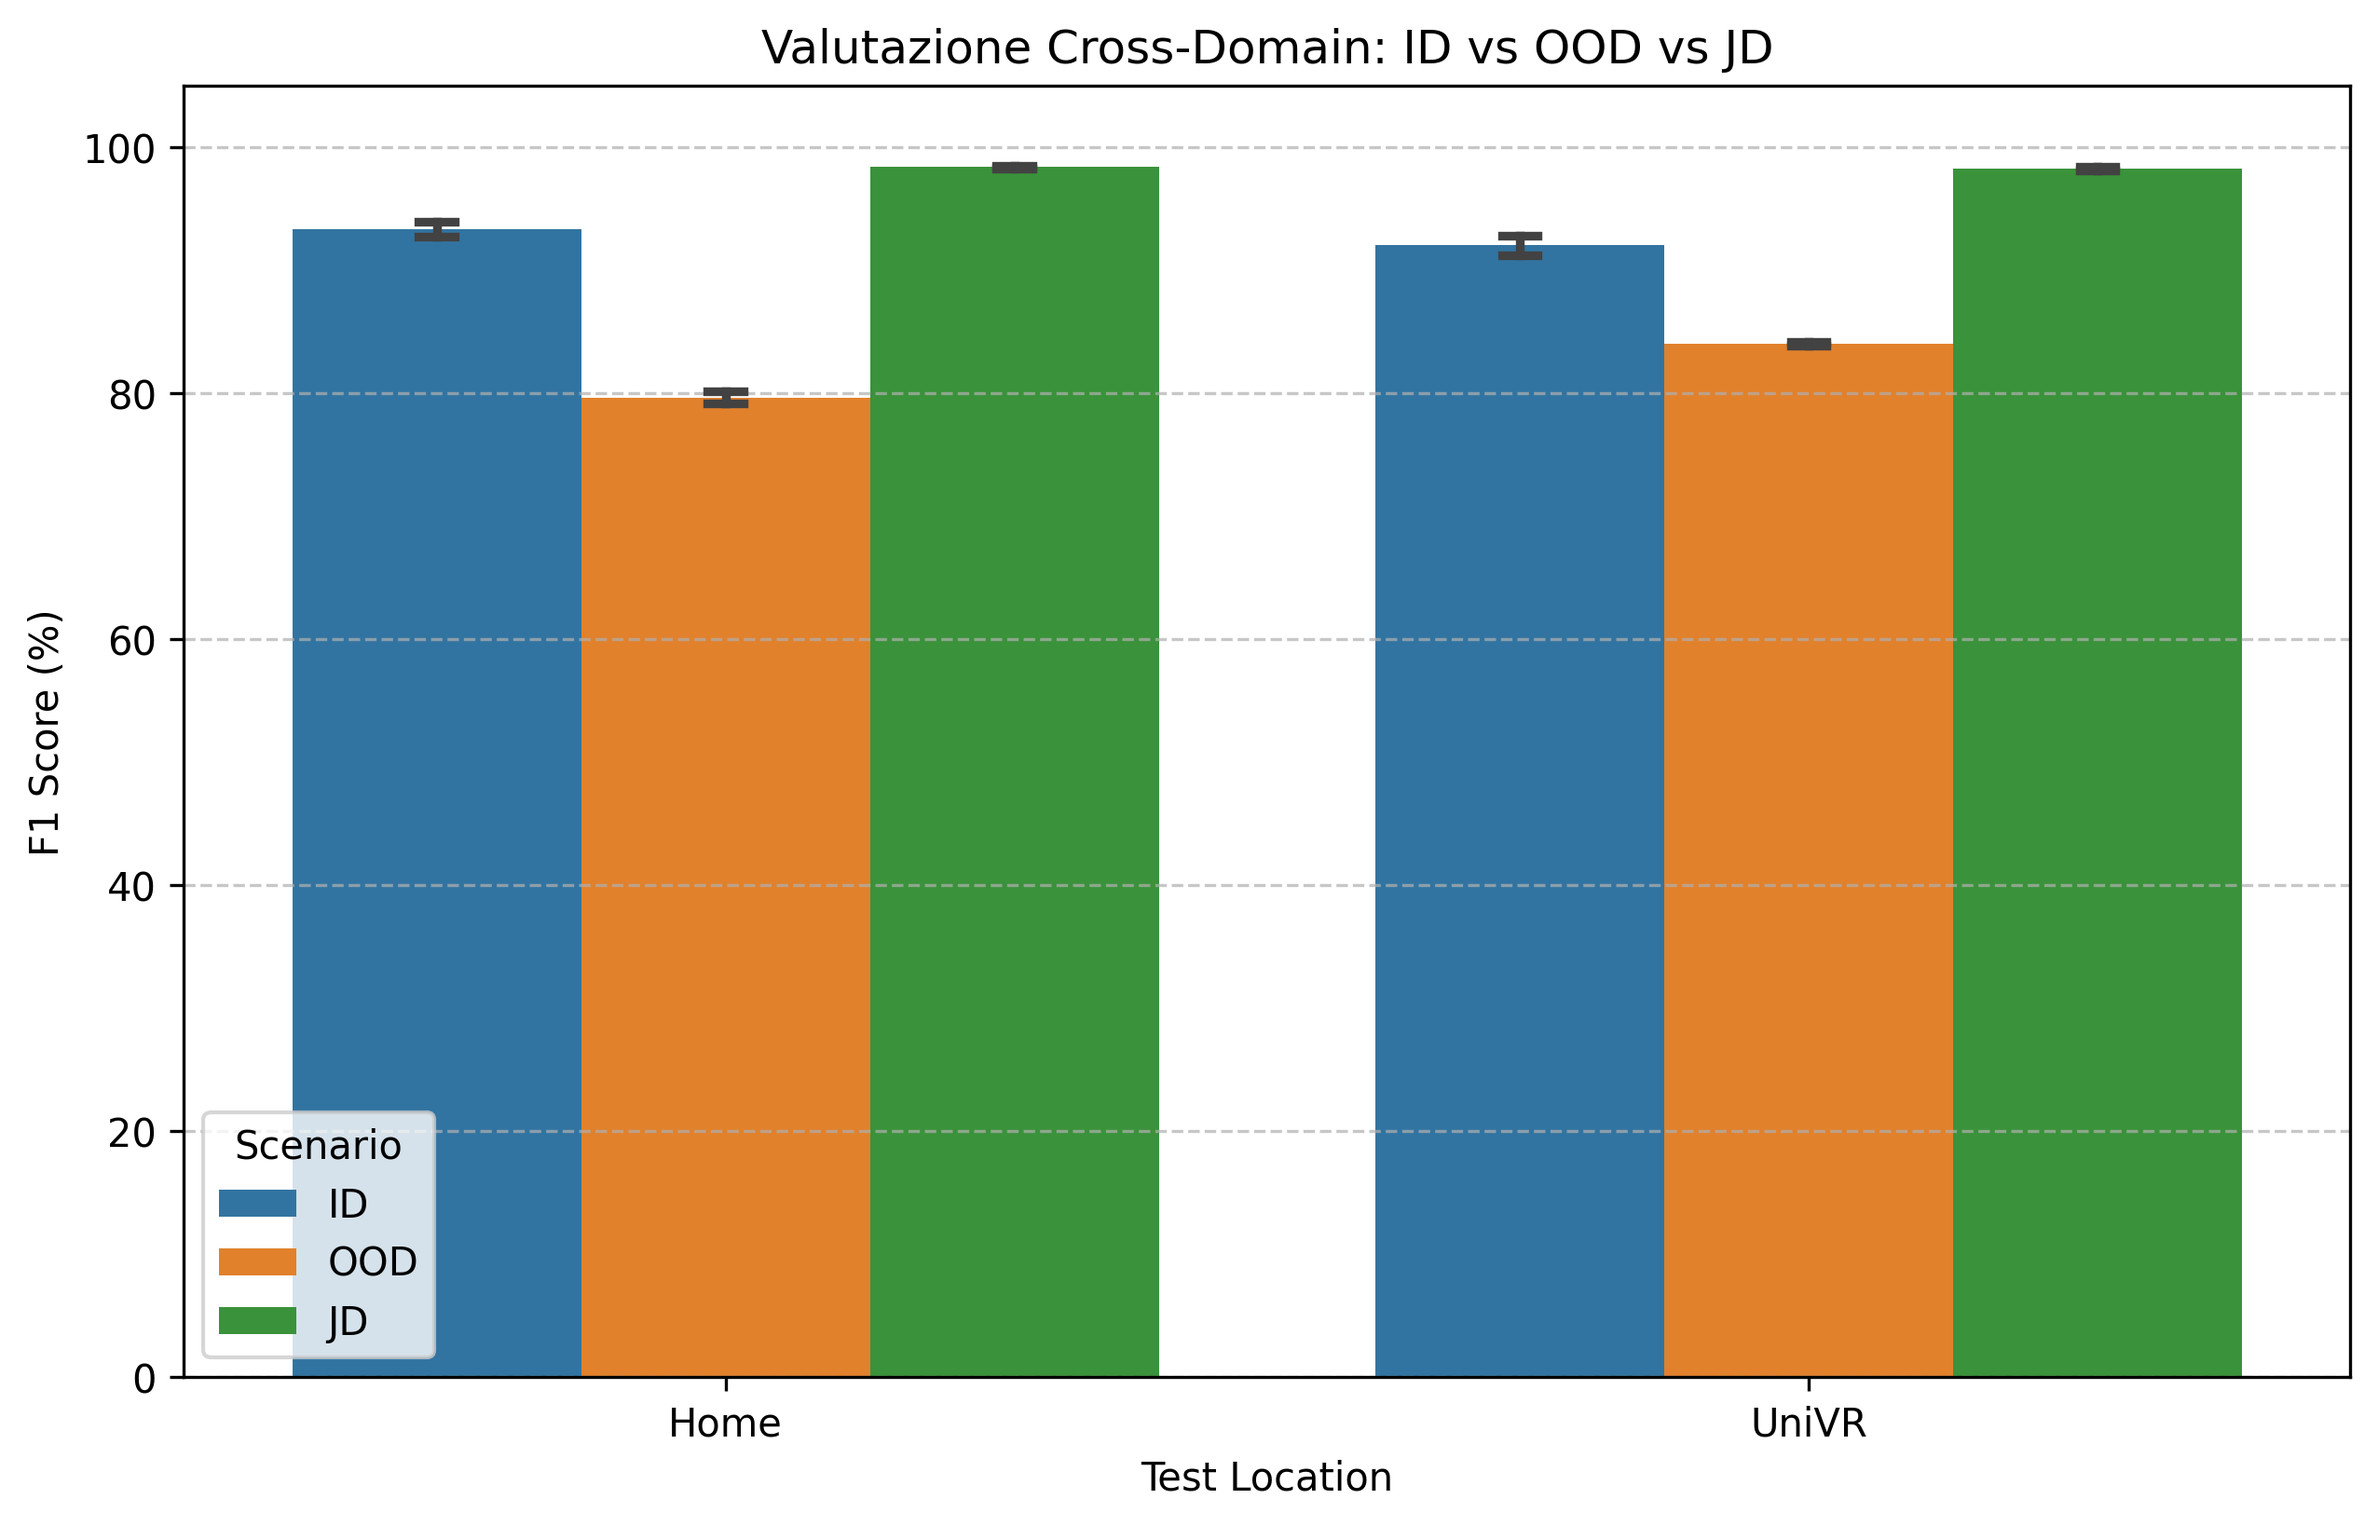
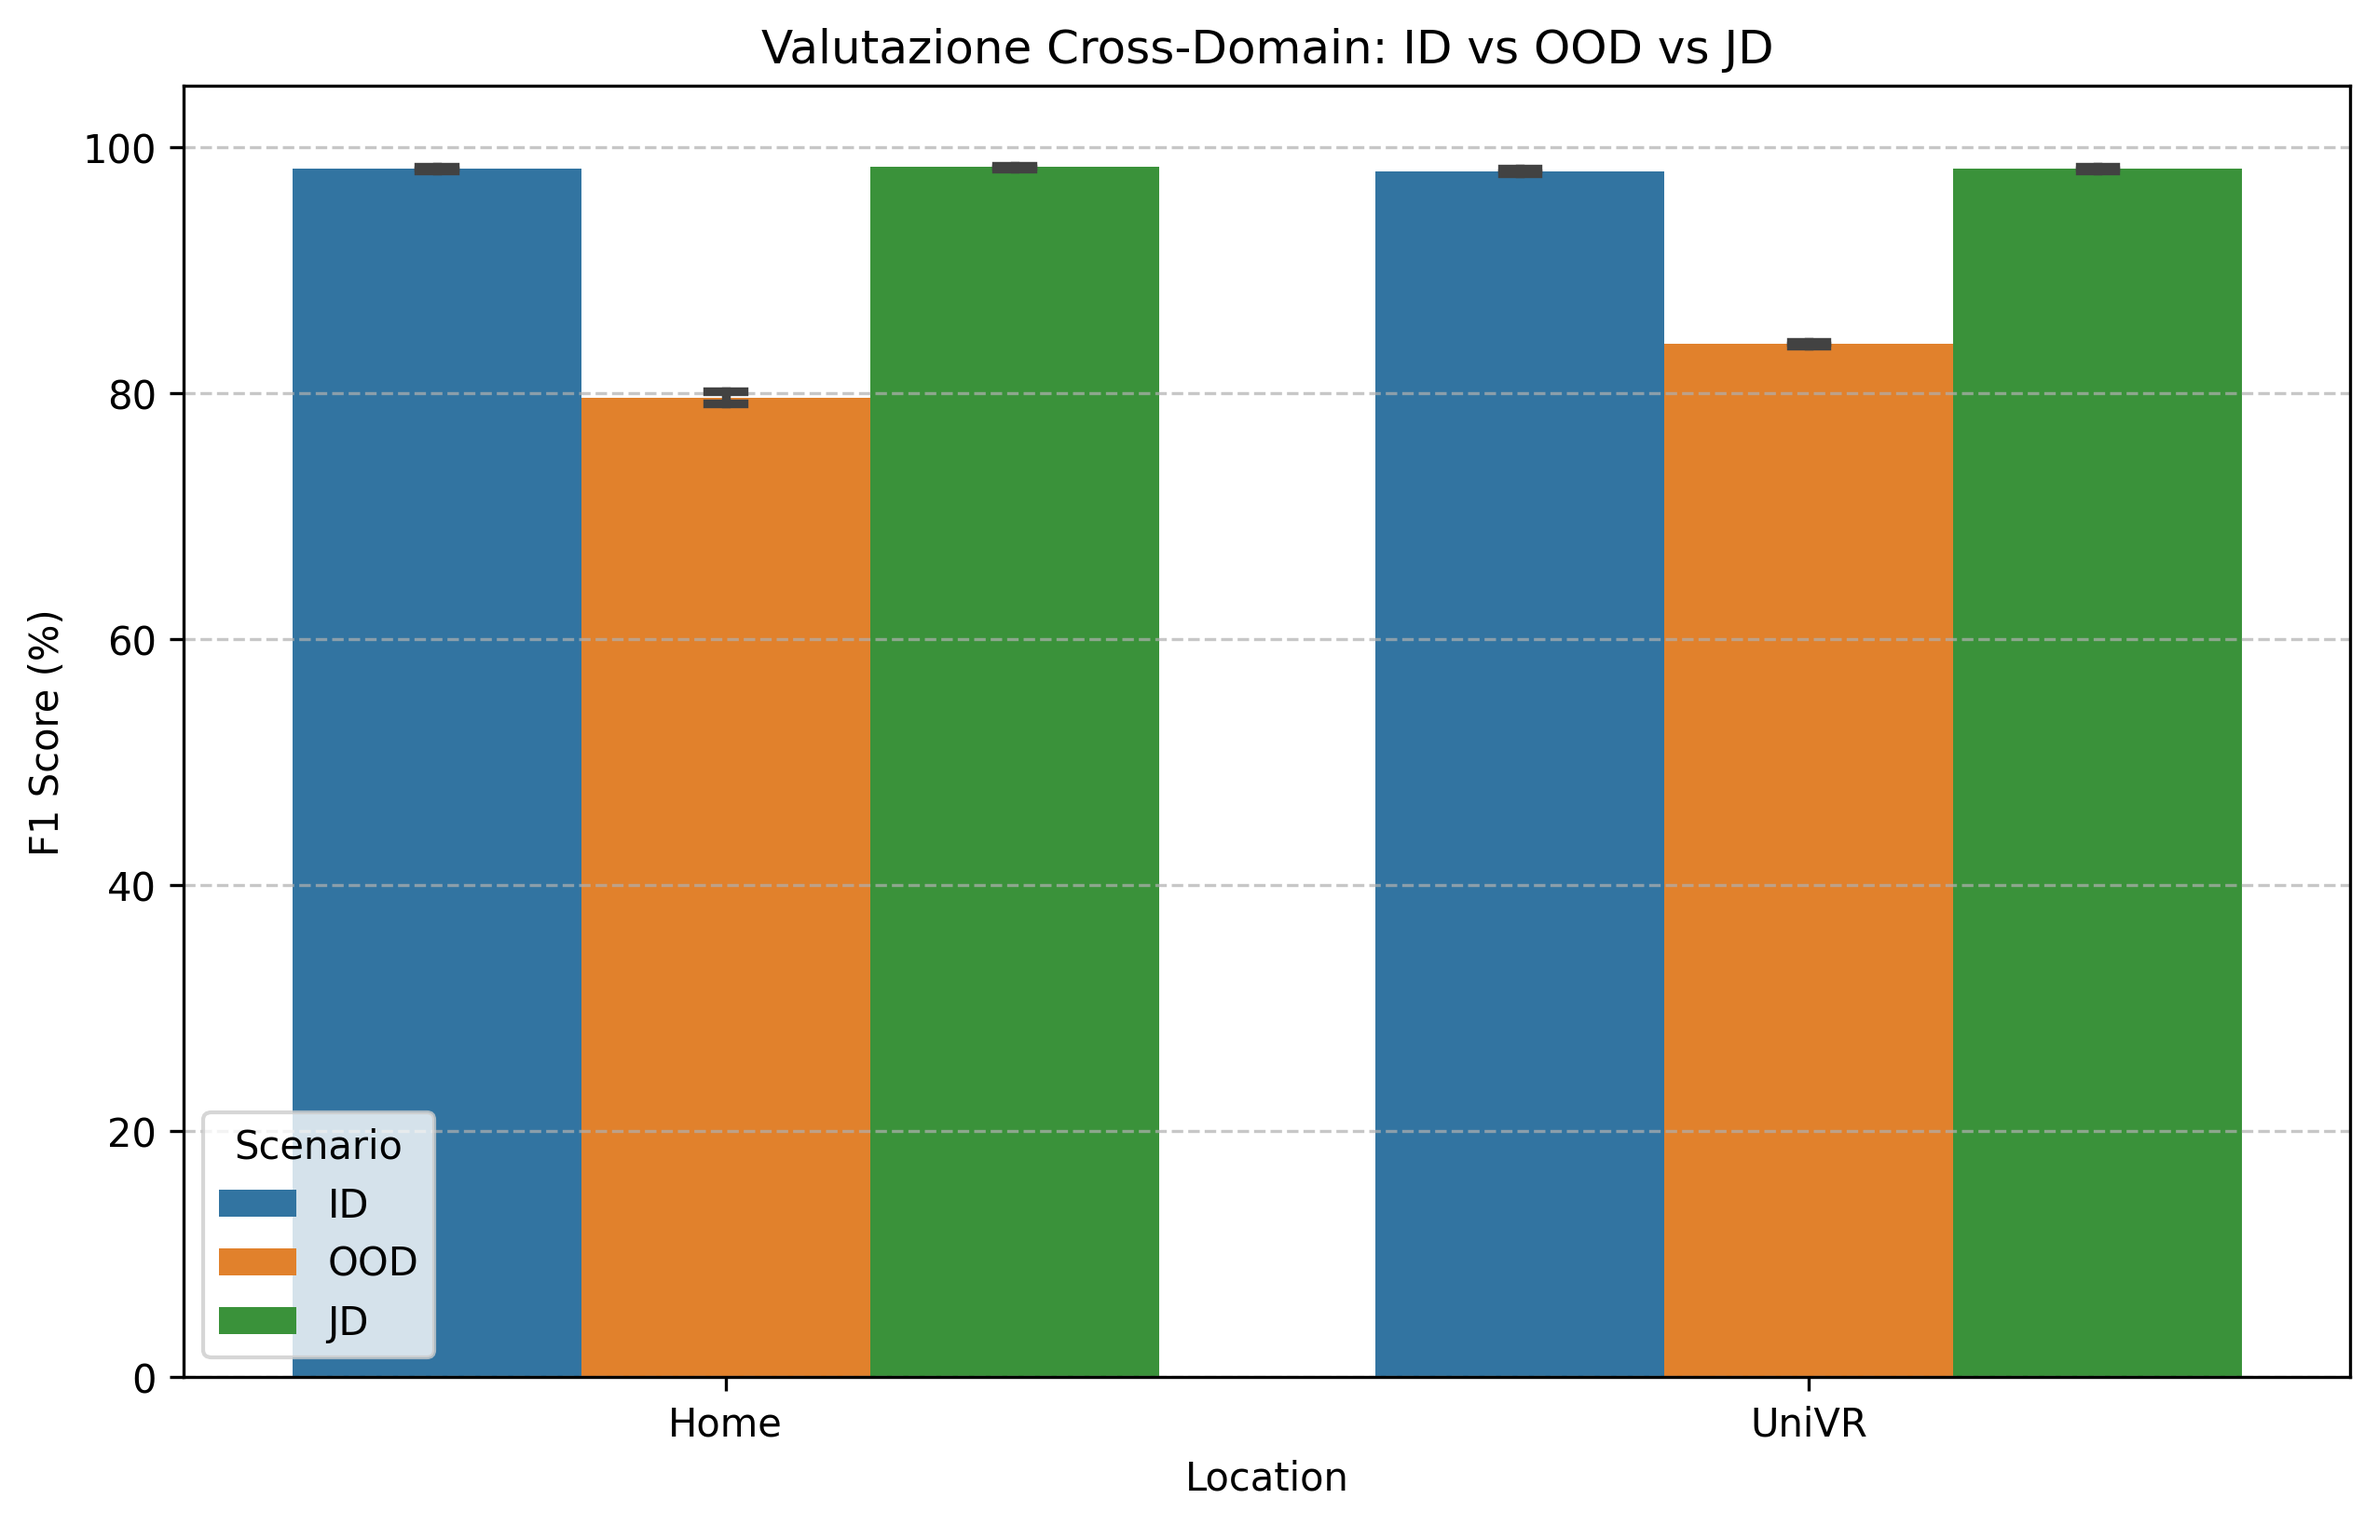
correzione bug

Changed region(s): [[0.5572, 0.0934, 0.712, 0.1868], [0.1238, 0.0934, 0.2476, 0.1557], [0.4953, 0.9652, 0.5882, 0.9963]]

diff --git a/main.py b/main.py
@@ -12,7 +12,7 @@ SEED = 42
 np.random.seed(SEED)
 random.seed(SEED)
 NUM_PACKETS = 20
-MODEL_TYPE = 'knn' # 'rf', 'knn', 'xgboost'
+MODEL_TYPE = 'xgboost' # 'rf', 'knn', 'xgboost'
 DATASET_PATH = "/storage_14tb/workspace_idio/UniVR_Data/dataset_df_exact_no0load_saturated_handshake_tail_no0loadFilter_extended_94bde95_7e0dbc17/"
 
 print("--- FASE 1: Caricamento Dati ---")
@@ -46,9 +46,9 @@ all_results = [] #per salvare i risultati di tutti gli scenari
 def collect_results(df, location_name, label):
     for _, row in df.iterrows():
         all_results.append({
-            'Test Location': location_name,
+            'Location': location_name,
             'Scenario': label,
-            'F1 Score': row['f1_OOD_or_JD'] if label != 'ID' else row['f1_ID']
+            'F1 Score': row['f1_OOD_or_JD'] 
         })
 
 #1. addestramento su Home, test su Home
@@ -86,7 +86,7 @@ report_jd_to_home.to_csv(f"risultati/{MODEL_TYPE}/{NUM_PACKETS}/report_jd_to_hom
 #GENERO BARPLOT FINALE 
 final_plot_df = pd.DataFrame(all_results)
 plt.figure(figsize=(10, 6))
-sns.barplot(data=final_plot_df, x='Test Location', y='F1 Score', hue='Scenario', capsize=0.1, errorbar='sd')
+sns.barplot(data=final_plot_df, x='Location', y='F1 Score', hue='Scenario', capsize=0.1, errorbar='sd')
 plt.title('Valutazione Cross-Domain: ID vs OOD vs JD')
 plt.ylabel('F1 Score (%)')
 plt.ylim(0, 105)
